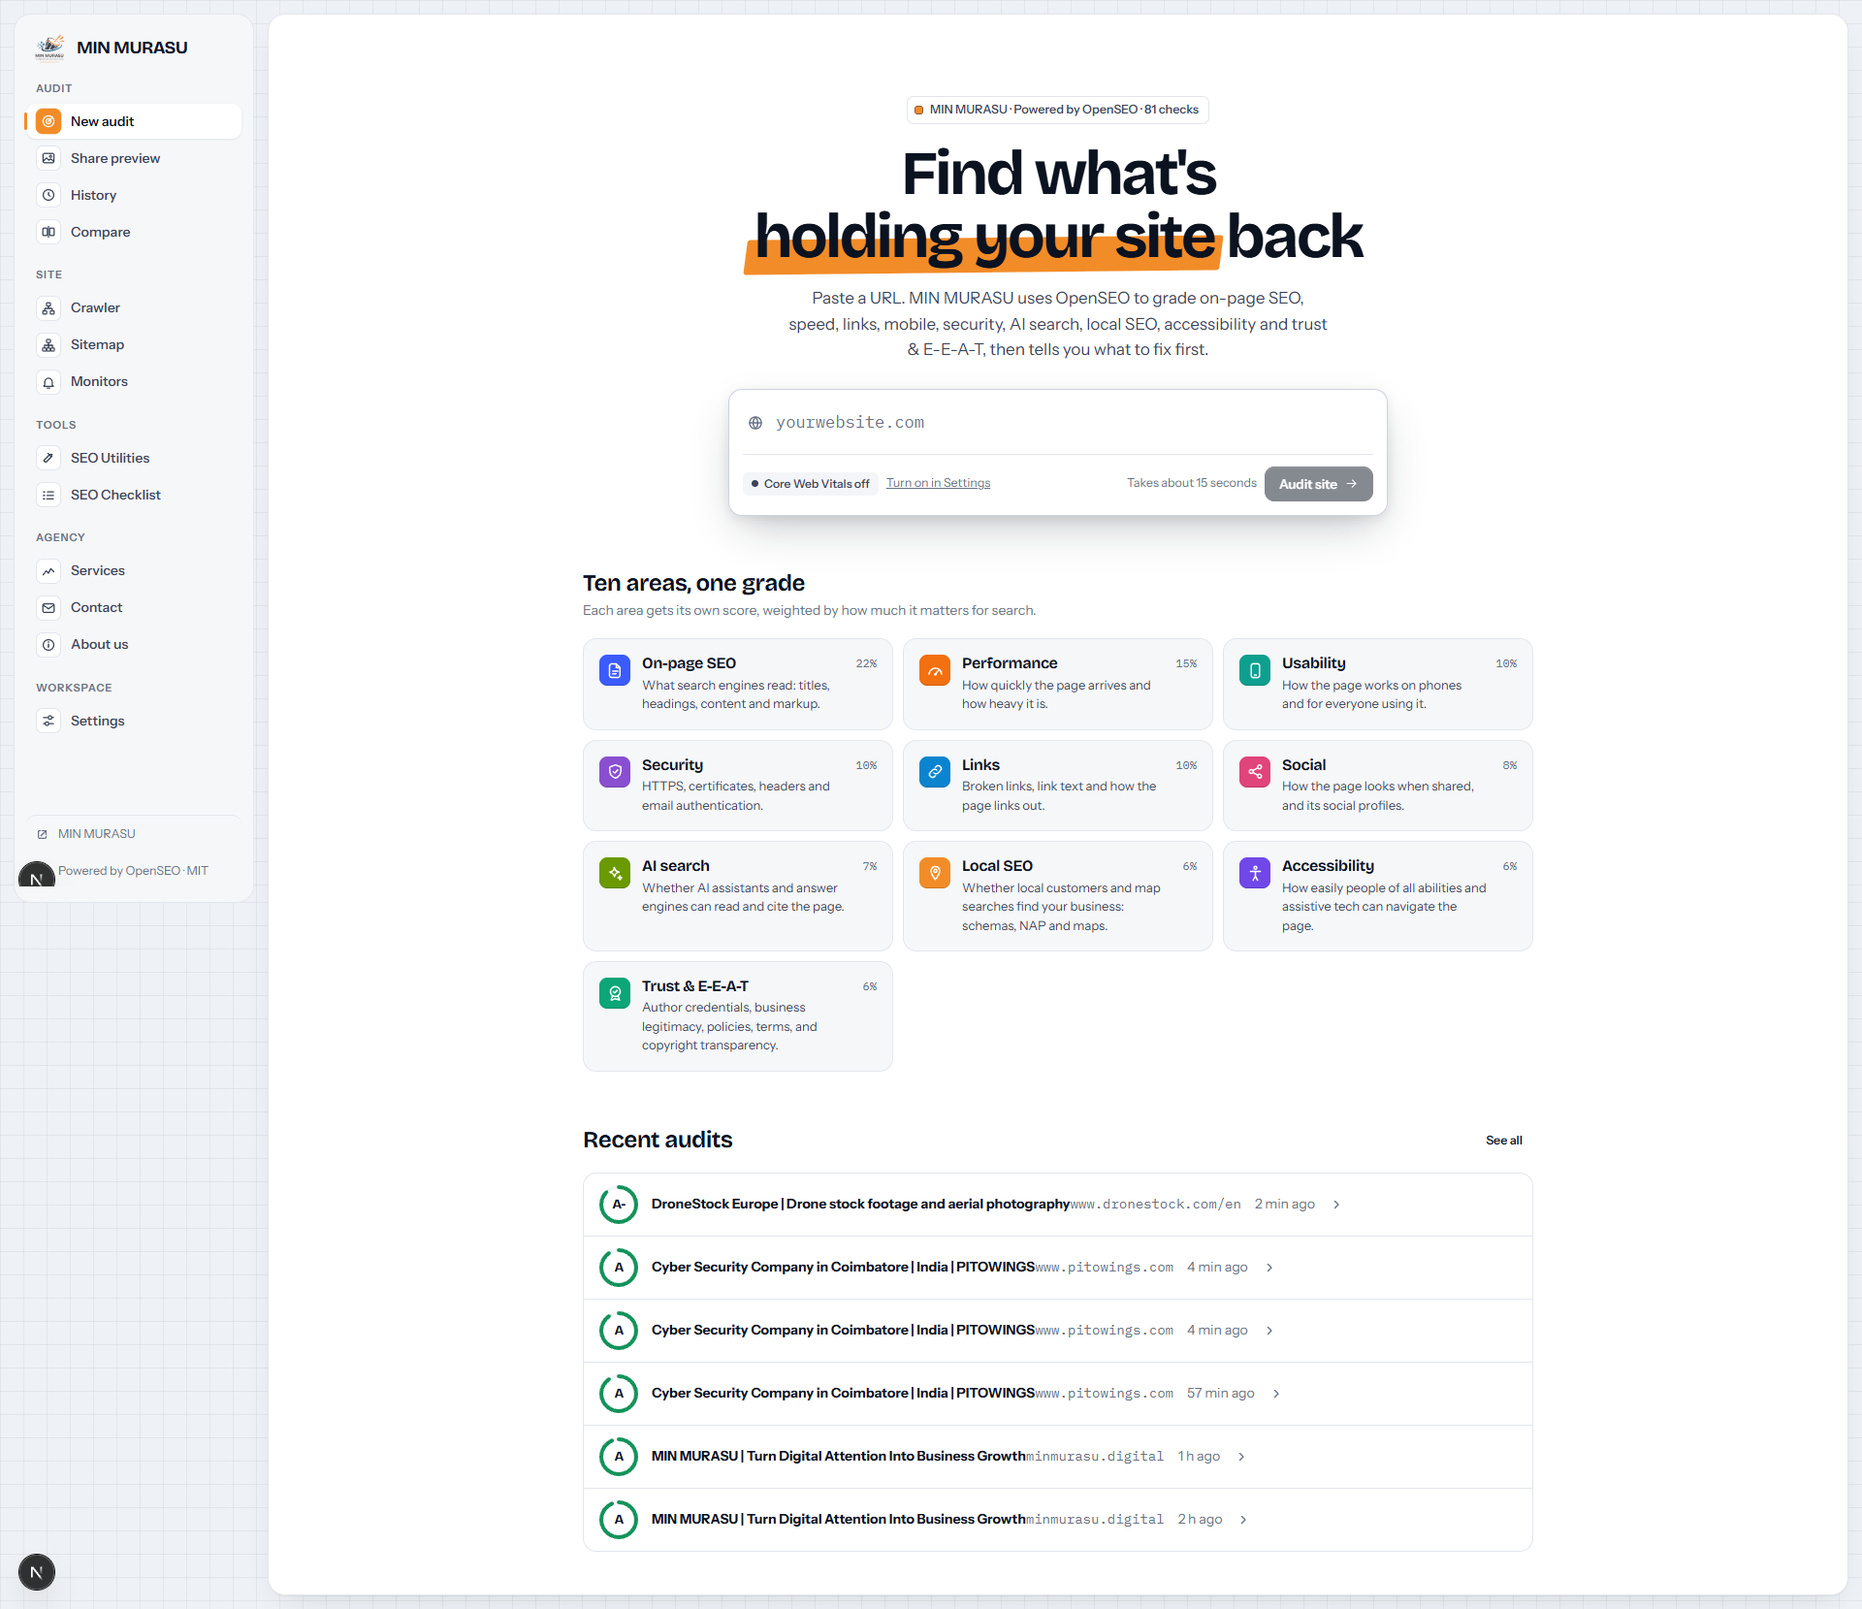
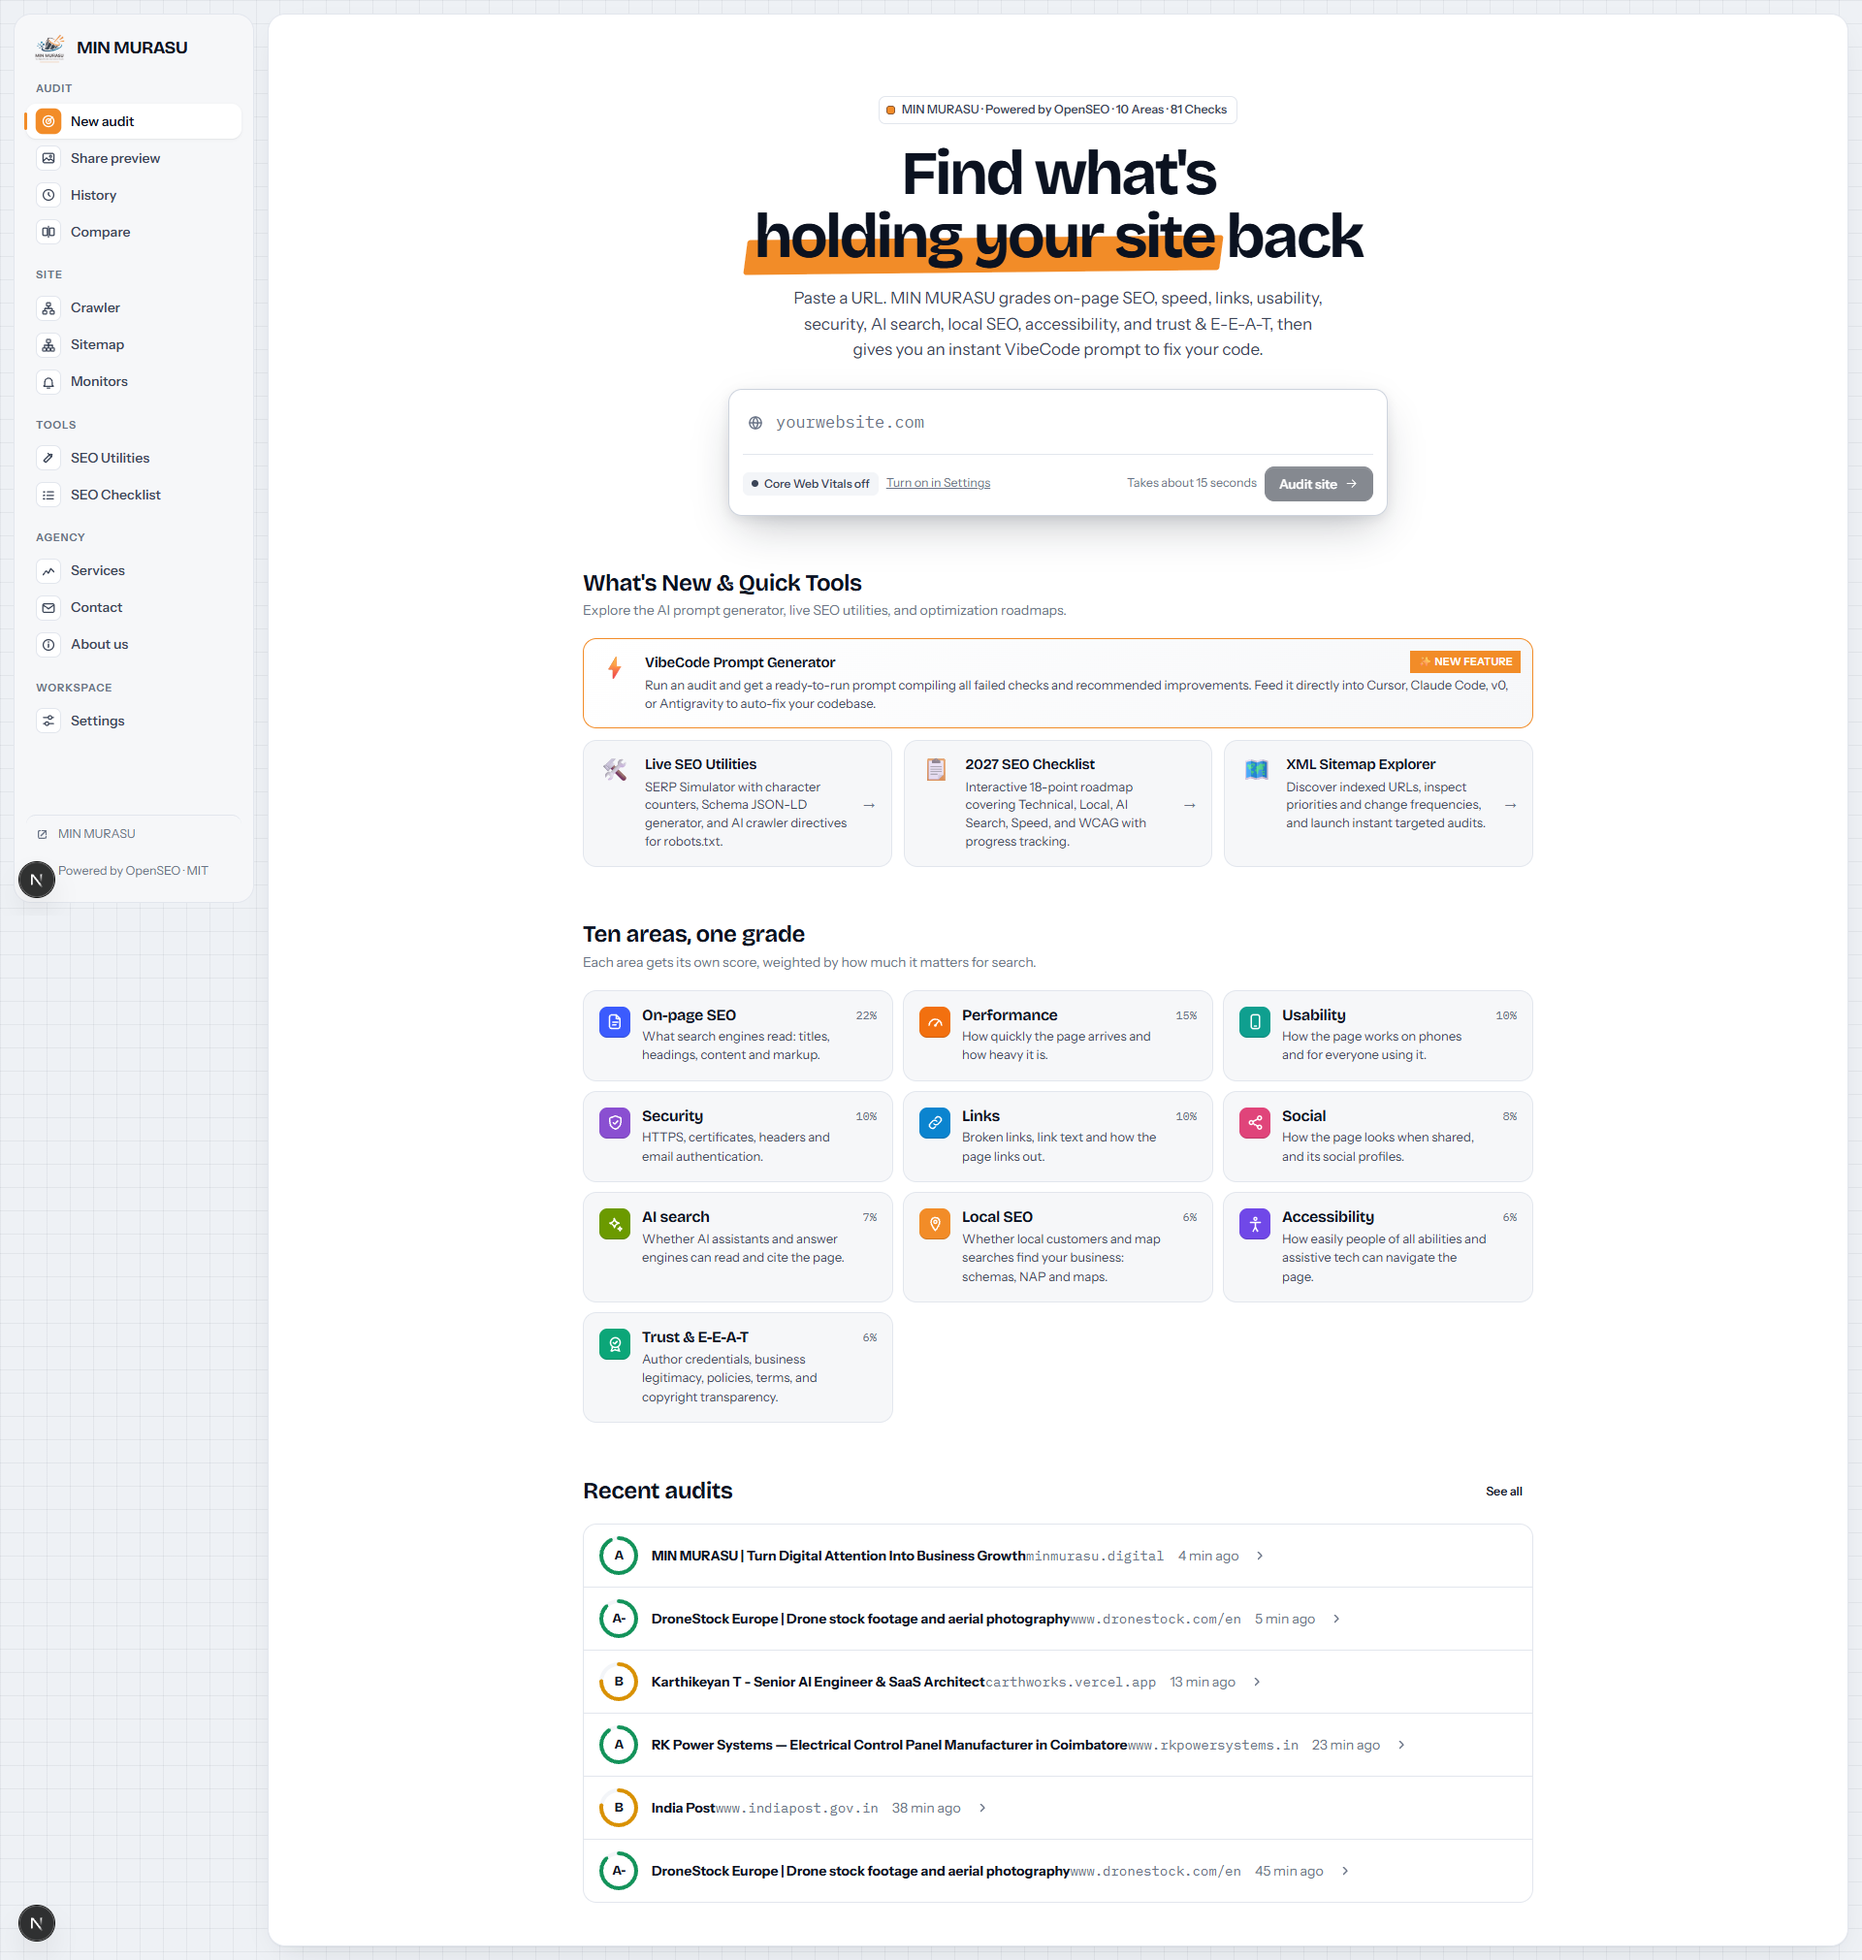
docs: update README and home screen with VibeCode prompt, quick tools, and 10 audit areas

diff --git a/src/web/screens/home-screen/home-screen.tsx b/src/web/screens/home-screen/home-screen.tsx
@@ -12,15 +12,60 @@ const HomeScreen = (props: HomeScreenProps) => {
 	return (
 		<div className="home">
 			<section className="home-hero">
-				<span className="eyebrow">{brandName} · Powered by OpenSEO · 81 checks</span>
+				<span className="eyebrow">{brandName} · Powered by OpenSEO · 10 Areas · 81 Checks</span>
 				<h1>
 					Find what&apos;s <span className="highlight">holding your site</span> back
 				</h1>
 				<p className="home-lede">
-					Paste a URL. {brandName} uses OpenSEO to grade on-page SEO, speed, links, mobile,
-					security, AI search, local SEO, accessibility and trust &amp; E-E-A-T, then tells you what to fix first.
+					Paste a URL. {brandName} grades on-page SEO, speed, links, usability,
+					security, AI search, local SEO, accessibility, and trust &amp; E-E-A-T, then gives you an instant VibeCode prompt to fix your code.
 				</p>
 				<AuditForm pagespeedEnabled={pagespeedEnabled} />
+			</section>
+
+			<section className="home-section" aria-labelledby="features-title">
+				<div className="home-section-head">
+					<h2 id="features-title">What&apos;s New &amp; Quick Tools</h2>
+					<p className="muted">
+						Explore the AI prompt generator, live SEO utilities, and optimization roadmaps.
+					</p>
+				</div>
+				<div className="home-features-grid">
+					<div className="home-feature-card home-feature-card--highlight">
+						<span className="home-feature-badge">✨ New Feature</span>
+						<span className="home-feature-icon" aria-hidden="true">⚡</span>
+						<div>
+							<h3>VibeCode Prompt Generator</h3>
+							<p>
+								Run an audit and get a ready-to-run prompt compiling all failed checks and recommended improvements. Feed it directly into Cursor, Claude Code, v0, or Antigravity to auto-fix your codebase.
+							</p>
+						</div>
+					</div>
+					<Link href="/tools" className="home-feature-card">
+						<span className="home-feature-icon" aria-hidden="true">🛠</span>
+						<div>
+							<h3>Live SEO Utilities</h3>
+							<p>SERP Simulator with character counters, Schema JSON-LD generator, and AI crawler directives for robots.txt.</p>
+						</div>
+						<span className="home-feature-arrow" aria-hidden="true">→</span>
+					</Link>
+					<Link href="/checklist" className="home-feature-card">
+						<span className="home-feature-icon" aria-hidden="true">📋</span>
+						<div>
+							<h3>2027 SEO Checklist</h3>
+							<p>Interactive 18-point roadmap covering Technical, Local, AI Search, Speed, and WCAG with progress tracking.</p>
+						</div>
+						<span className="home-feature-arrow" aria-hidden="true">→</span>
+					</Link>
+					<Link href="/sitemap" className="home-feature-card">
+						<span className="home-feature-icon" aria-hidden="true">🗺</span>
+						<div>
+							<h3>XML Sitemap Explorer</h3>
+							<p>Discover indexed URLs, inspect priorities and change frequencies, and launch instant targeted audits.</p>
+						</div>
+						<span className="home-feature-arrow" aria-hidden="true">→</span>
+					</Link>
+				</div>
 			</section>
 
 			<section className="home-section" aria-labelledby="checks-title">

diff --git a/src/web/styles/home.css b/src/web/styles/home.css
@@ -270,3 +270,92 @@ a.composer-hint:hover {
 	color: var(--ink);
 	transform: translateX(3px);
 }
+
+/* ── Home Features & Utilities Grid ────────────────────────────────── */
+
+.home-features-grid {
+	display: grid;
+	grid-template-columns: repeat(auto-fill, minmax(280px, 1fr));
+	gap: 12px;
+}
+
+.home-feature-card {
+	position: relative;
+	display: flex;
+	align-items: flex-start;
+	gap: 14px;
+	padding: 16px;
+	border: 1px solid var(--line);
+	border-radius: var(--radius-lg);
+	background: var(--surface-2);
+	color: inherit;
+	text-decoration: none;
+	animation: homeFadeUp 0.5s cubic-bezier(0.16, 1, 0.3, 1) both;
+	transition: transform 0.22s cubic-bezier(0.16, 1, 0.3, 1),
+		box-shadow 0.22s cubic-bezier(0.16, 1, 0.3, 1),
+		border-color 0.2s ease,
+		background 0.2s ease;
+}
+
+.home-feature-card:hover {
+	transform: translateY(-2px);
+	background: var(--surface);
+	border-color: var(--line-strong);
+	box-shadow: 0 12px 28px -10px rgb(11 18 32 / 0.12), var(--shadow-card);
+}
+
+.home-feature-card--highlight {
+	grid-column: 1 / -1;
+	border-color: var(--accent);
+	background: linear-gradient(135deg, var(--surface) 0%, var(--surface-2) 100%);
+	box-shadow: 0 0 0 1px var(--accent-faint), var(--shadow-card);
+}
+
+.home-feature-badge {
+	position: absolute;
+	top: 12px;
+	right: 12px;
+	display: inline-flex;
+	align-items: center;
+	padding: 3px 8px;
+	border-radius: var(--radius-full);
+	background: var(--accent);
+	color: #fff;
+	font-size: 11px;
+	font-weight: 600;
+	letter-spacing: 0.02em;
+	text-transform: uppercase;
+}
+
+.home-feature-icon {
+	font-size: 24px;
+	line-height: 1;
+	flex-shrink: 0;
+	margin-top: 2px;
+}
+
+.home-feature-card h3 {
+	font-size: 15px;
+	font-weight: 600;
+}
+
+.home-feature-card p {
+	margin-top: 4px;
+	color: var(--ink-2);
+	font-size: 13px;
+	line-height: 1.45;
+}
+
+.home-feature-arrow {
+	margin-left: auto;
+	align-self: center;
+	color: var(--ink-3);
+	font-size: 16px;
+	transition: transform 0.2s ease, color 0.2s ease;
+}
+
+.home-feature-card:hover .home-feature-arrow {
+	color: var(--ink);
+	transform: translateX(3px);
+}
+

diff --git a/src/web/screens/report-screen/components/vibecode-modal/index.ts b/src/web/screens/report-screen/components/vibecode-modal/index.ts
@@ -1,3 +1,4 @@
 export { default as VibecodeModal } from './vibecode-modal'
 export type { VibecodeModalProps } from './vibecode-modal.types'
 export { generateVibecodePrompt } from './vibecode-modal.utils'
+

diff --git a/src/web/screens/report-screen/components/vibecode-modal/vibecode-modal.tsx b/src/web/screens/report-screen/components/vibecode-modal/vibecode-modal.tsx
@@ -103,3 +103,4 @@ const VibecodeModal = (props: VibecodeModalProps) => {
 }
 
 export default memo(VibecodeModal)
+

diff --git a/src/web/screens/report-screen/components/vibecode-modal/vibecode-modal.utils.ts b/src/web/screens/report-screen/components/vibecode-modal/vibecode-modal.utils.ts
@@ -86,3 +86,4 @@ ${warningsSection}
 Please provide concise, drop-in code diffs for all modified files.
 `
 }
+

diff --git a/src/web/screens/report-screen/components/vibecode-modal/vibecode-modal.types.ts b/src/web/screens/report-screen/components/vibecode-modal/vibecode-modal.types.ts
@@ -5,3 +5,4 @@ export interface VibecodeModalProps {
 	open: boolean
 	onClose: () => void
 }
+

diff --git a/README.md b/README.md
@@ -27,11 +27,12 @@ An open-source, full-stack SEO audit and digital marketing platform powered by *
 
 ## 🎯 What It Does
 
+- **✨ VibeCode Prompt Generator**: Instant AI prompt generator that packages all failed checks, warnings, and low-priority fixes into a clean markdown prompt ready to feed directly into **Cursor, Claude Code, Lovable, v0, Antigravity**, or any AI coding assistant to auto-remediate your codebase.
 - **Comprehensive 10-Area Audits**: 81 automated diagnostic checks evaluated in seconds, weighted into one unified grade.
 - **Actionable Prioritized Fixes**: Every issue is categorized by severity (`High`, `Medium`, `Low`) with step-by-step instructions and code snippets.
 - **Site-Wide Crawler**: Crawls entire websites to detect broken links, duplicate titles, missing descriptions, thin content, and indexability issues.
 - **Direct Lead Generation**: Generated reports include direct **Call**, **WhatsApp**, and **Email** buttons for instant client outreach.
-- **Print & PDF Cover Export**: Generates agency-ready, beautifully styled PDF reports complete with a branded cover page.
+- **Print & PDF Cover Export with Category Grade Pills**: Generates agency-ready, beautifully styled PDF reports complete with a branded cover page and executive category grades.
 - **XML Sitemap Explorer**: Inspects any `sitemap.xml`, extracts discovered URLs, change frequencies, priorities, and launches batch audits.
 - **Interactive SEO Utilities**:
   - **SERP Simulator**: Live Google desktop search preview with character length counters and cut-off alerts.
@@ -42,6 +43,17 @@ An open-source, full-stack SEO audit and digital marketing platform powered by *
 - **AI Search Readiness (GEO)**: Analyzes whether your site is accessible and citeable by AI answer engines via `/llms.txt` and crawler directives.
 - **Side-by-Side Competitor Comparison**: Compare two URLs side-by-side to highlight competitive advantages and missing optimizations.
 - **Continuous Monitoring & Alerts**: Automated daily or weekly re-audits with alerts sent to Email, Slack, Discord, or Webhooks on score drops or downtime.
+
+---
+
+## ⚡ VibeCode AI Prompt Generator
+
+Turn audit diagnostic insights directly into working code without manual copying:
+
+1. **Scan Any Website**: Run a comprehensive audit on your target URL.
+2. **Click `✨ VibeCode Prompt`**: Located in the top-right action bar of every report.
+3. **Copy Structured AI Prompt**: Opens a modal window with an instant overview of failed checks, warnings, recommendations, and execution checklists.
+4. **Paste Into Your Coding Agent**: Feed directly into Cursor, Claude Code, Lovable, v0, or Antigravity to have the AI systematically fix title lengths, meta descriptions, image alts, schema tags, heading hierarchies, robots rules, and trust badges across your project files.
 
 ---
 
